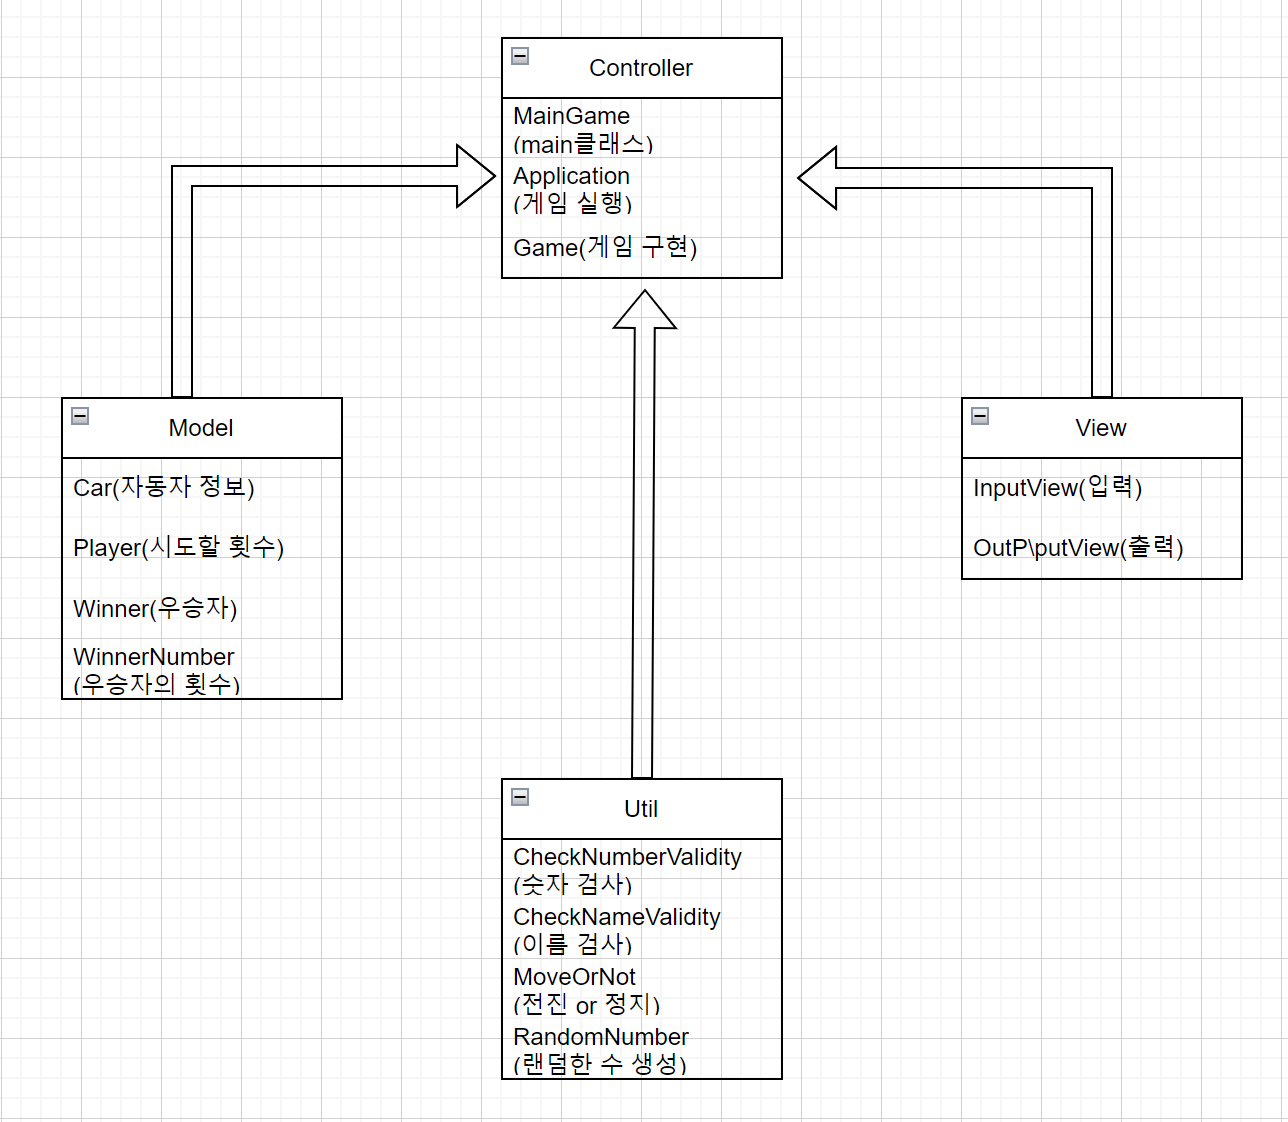
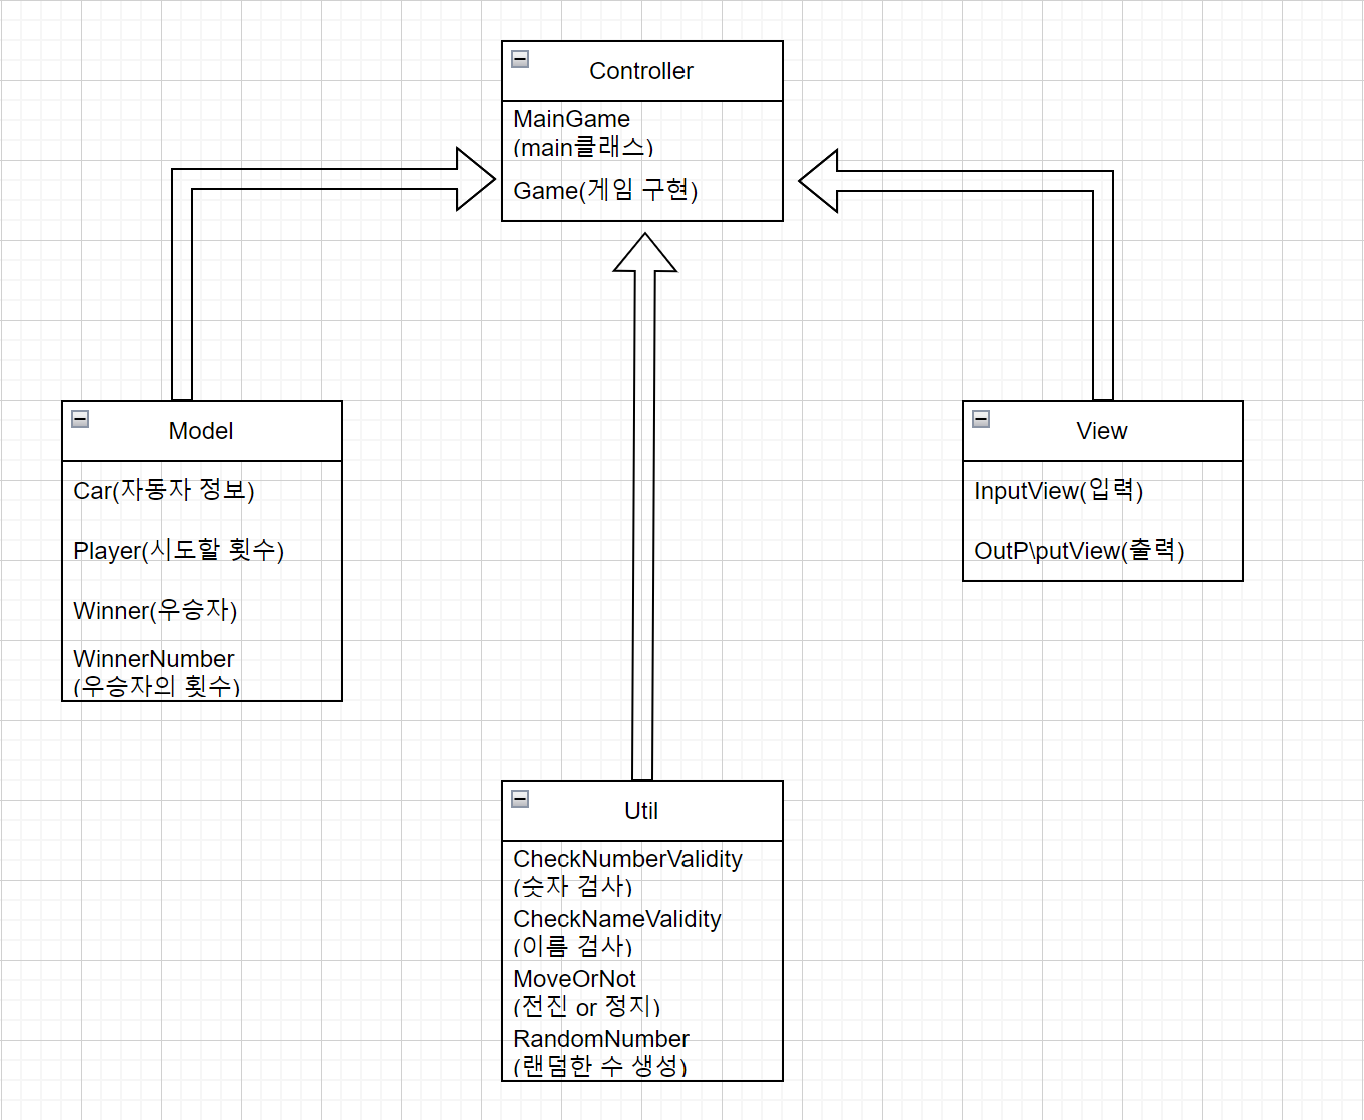
Remove: Application클래스 삭제후 MainGame이 게임 실행

diff --git a/README.md b/README.md
@@ -29,8 +29,7 @@
 MVC모델
 
 Controller
-- MainGame: Application의 run메소드만 실행
-- Application: game을 실행하는 클래스
+- MainGame: Game클래스의 totalGame메소드 실행
 - Game: 실질적인 게임을 구성하는 클래스
 
 Model
